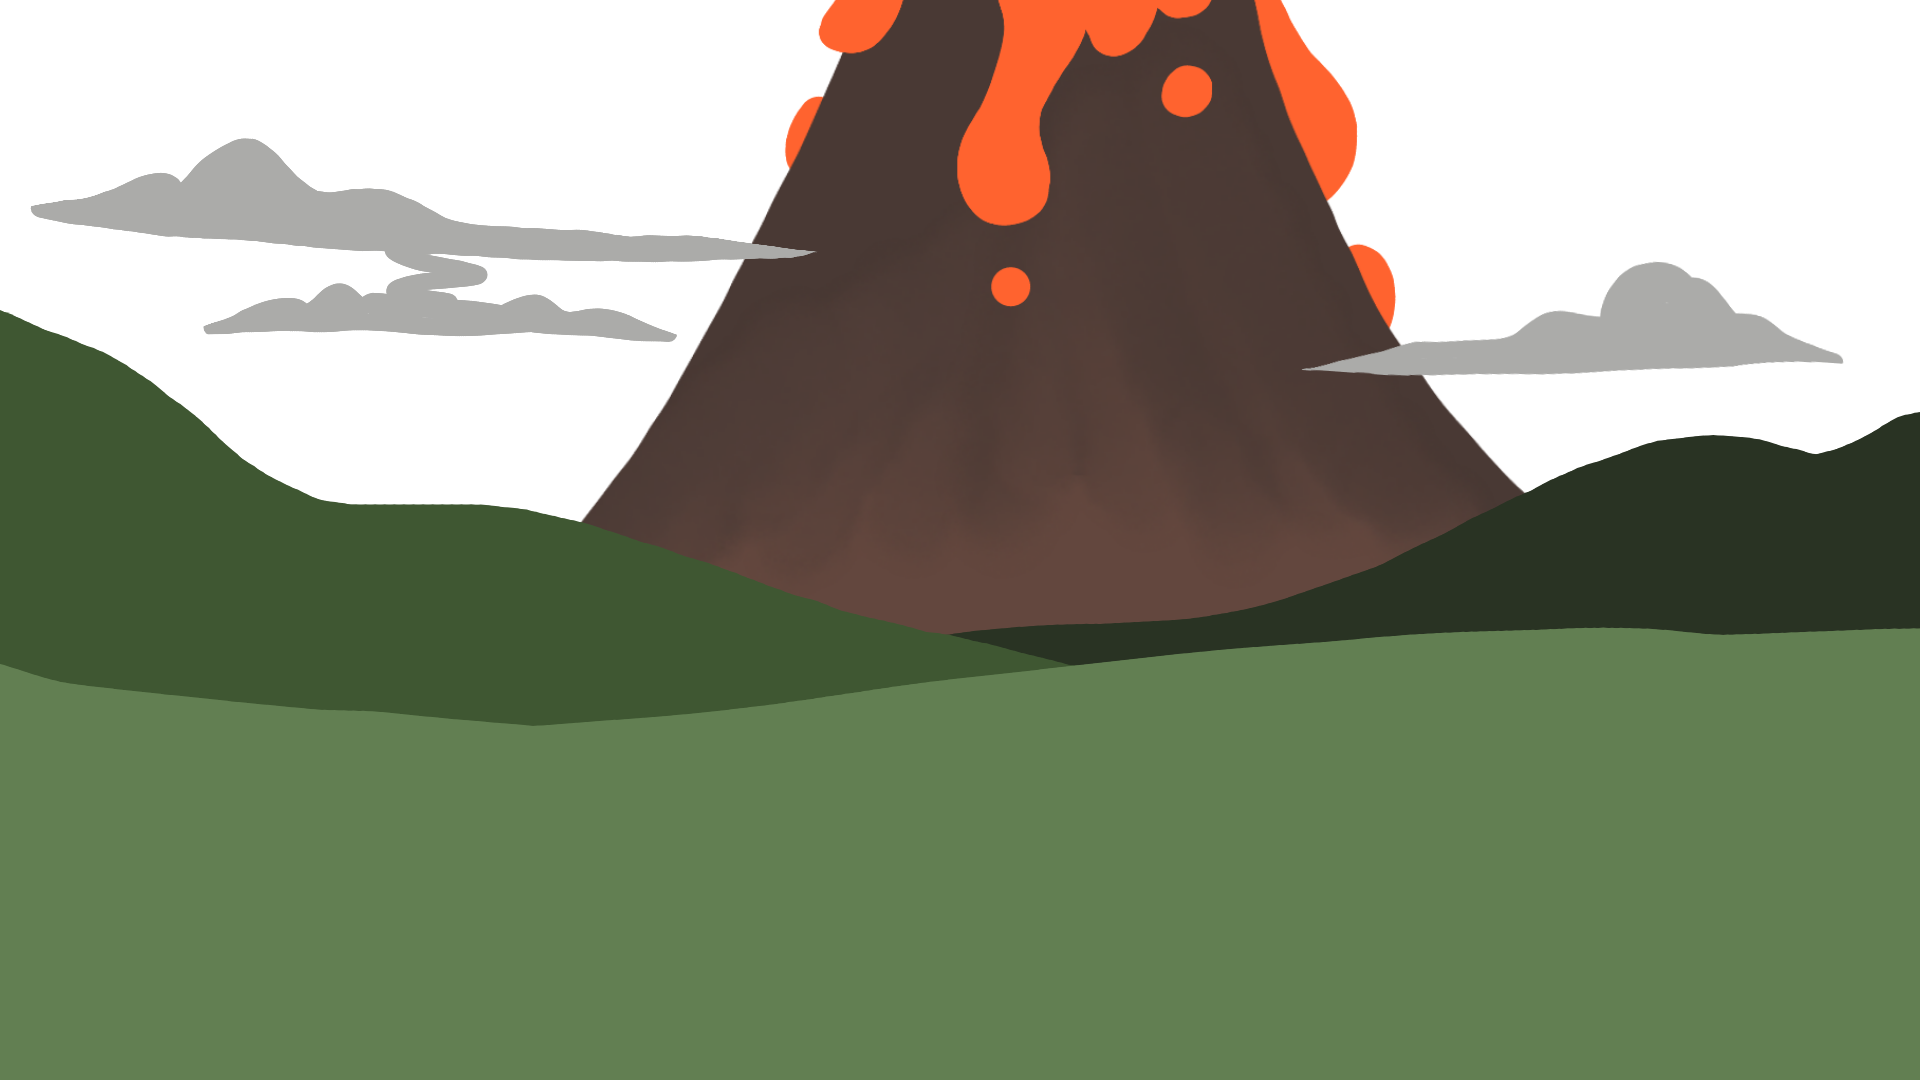
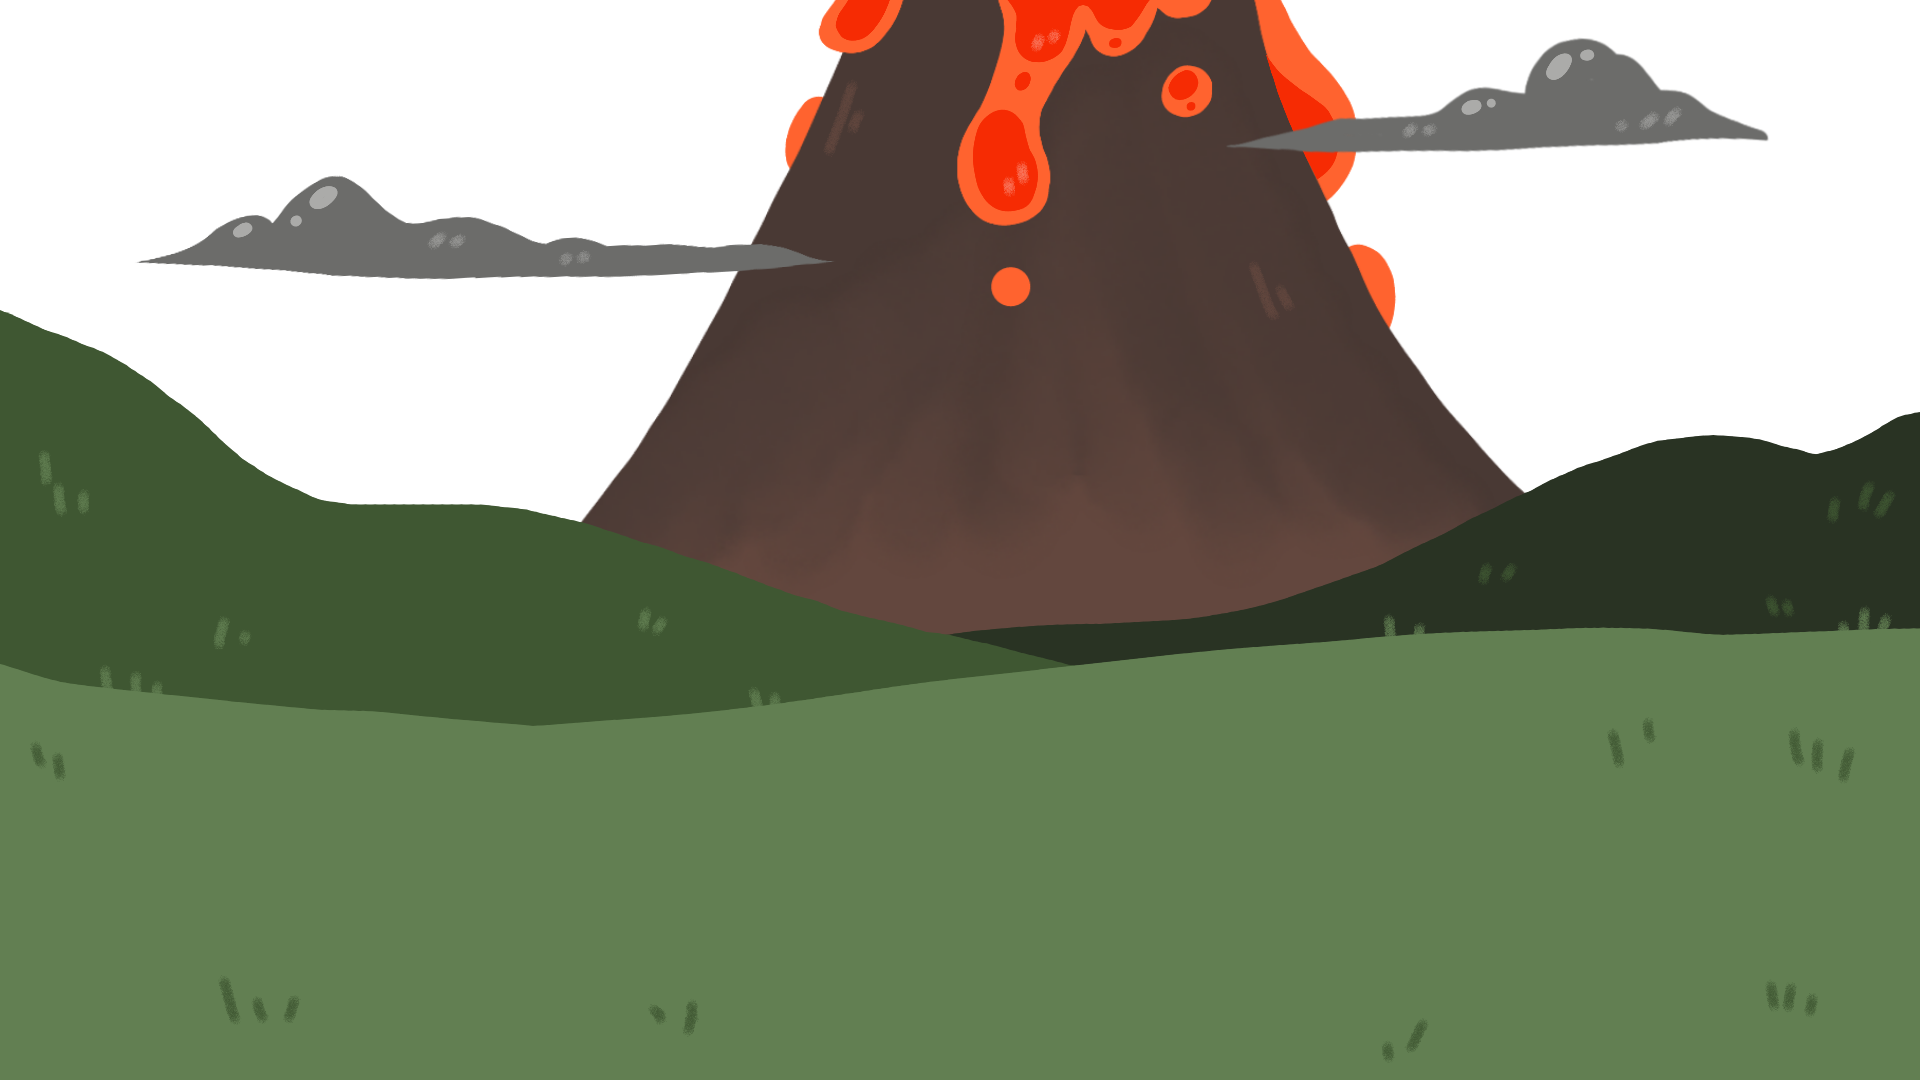
Modified BG (colour and detail)

diff --git a/music_hellpark.js b/music_hellpark.js
@@ -28,7 +28,7 @@ function draw_one_frame(words, vocal, drum, bass, other, counter) {
     angleMode(DEGREES);
     load_imgs_if_required();
 
-    background(255,236,180); // cream   
+    background(0, 0, 0); // cream   
     image(img_bg, 0, 0, canvasWidth, canvasHeight);
 
     // Draw Orphie (Vocals = Scale)
@@ -51,7 +51,7 @@ function draw_one_frame(words, vocal, drum, bass, other, counter) {
     pop();
 
     // Draw Silske (Bass = Translate)
-    let dxy = map(bass, 0, 100, -25, 25);
+    let dxy = map(bass, 0, 100, -10, 10);
     push();
     imageMode(CENTER);
     translate((canvasWidth * 0.65) + dxy, (canvasHeight * 0.5) + dxy);
